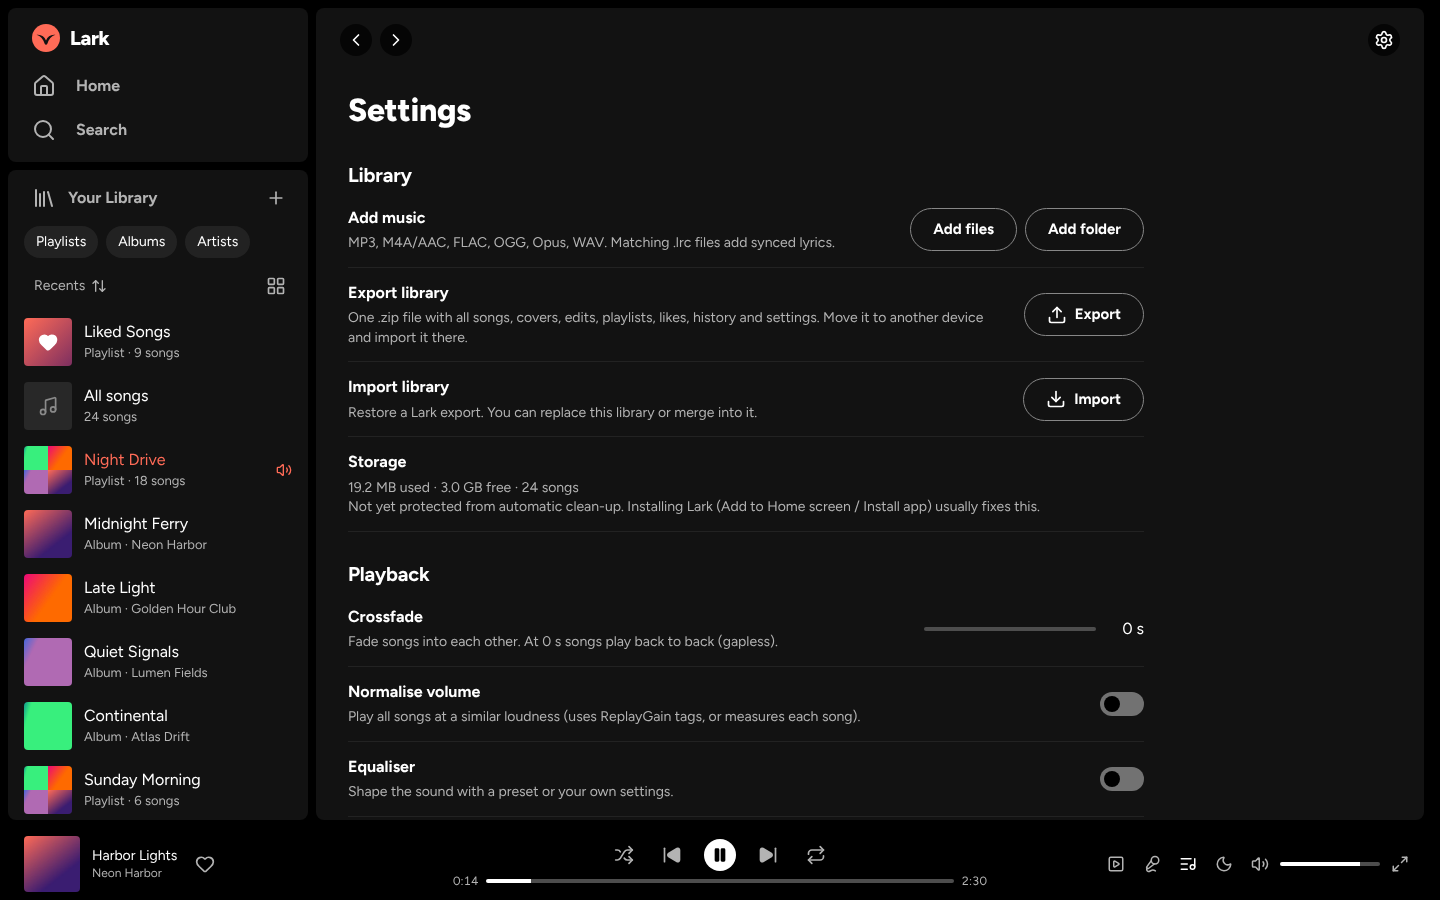
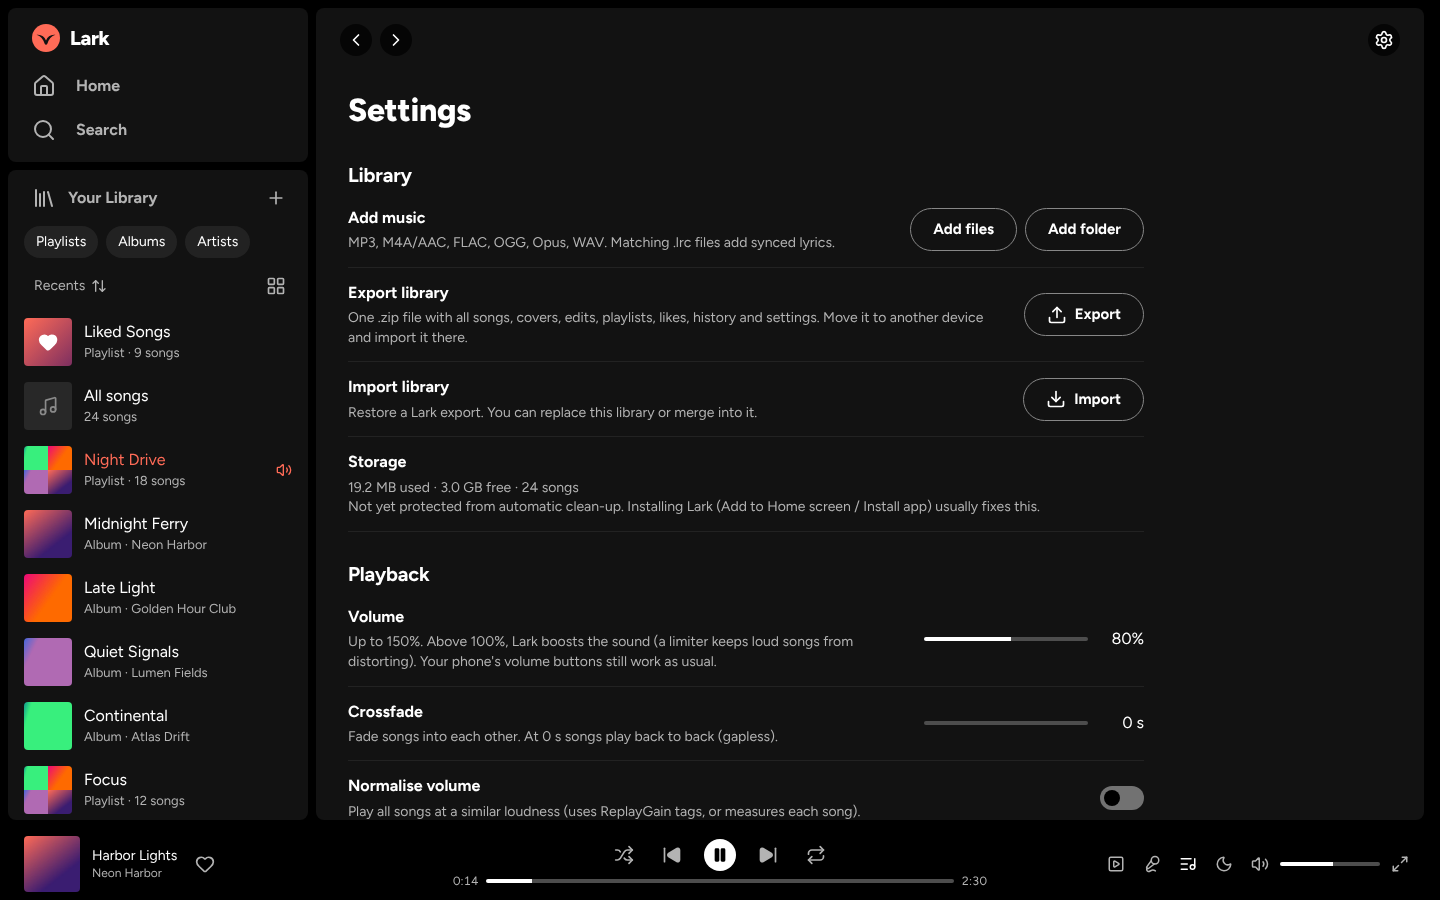
Volume up to 150%
The volume ceiling is now 150% (player-bar slider, keyboard, and a new
Volume slider in Settings, which phones need since their player has no
volume slider). Above 100% the sound is boosted through Web Audio with
a limiter so loud songs don't distort; at or below 100% playback is
unchanged (plain audio player unless crossfade/EQ/normalisation is on).
Test added.

Claude-Session: https://claude.ai/code/session_016covFTdUFWBo4vfXdR9J8w

diff --git a/src/js/engine.js b/src/js/engine.js
@@ -1,6 +1,6 @@
 // Audio engine. Two <audio> elements ("slots") take turns so the next song is already loaded:
 // it starts right as the current one ends (near-gapless) or overlaps it (crossfade).
-// Web Audio (needed for crossfade, EQ and normalisation) is only used while one of those is on;
+// Web Audio (needed for crossfade, EQ, normalisation and volume above 100%) is only used while one of those is on;
 // otherwise the elements play directly, which is the most reliable for background play on phones.
 import * as opfs from './opfs.js';
 import { Emitter } from './util.js';
@@ -11,7 +11,8 @@ export const EQ_PRESETS = {
   treble: [0, 0, 0, 1, 4, 6], vocal: [-2, -1, 2, 4, 3, 0], rock: [4, 2, -1, 1, 3, 4],
   pop: [-1, 2, 4, 3, 0, -1], acoustic: [3, 2, 1, 2, 2, 2], electronic: [5, 3, 0, -1, 2, 4],
 };
-export const GAP_LEAD = 0.01; // seconds before the end at which the next song is started when not crossfading
+export const GAP_LEAD = 0.01;
+export const MAX_VOLUME = 1.5; // 150%: above 100% the sound is boosted through Web Audio, with a limiter // seconds before the end at which the next song is started when not crossfading
 const db2gain = (db) => 10 ** (db / 20);
 
 export class Engine extends Emitter {
@@ -27,6 +28,7 @@ export class Engine extends Emitter {
   volume = 0.8;
   muted = false;
   #timer = 0;
+  #switching = Promise.resolve();
 
   constructor() { super(); this.#build(false); }
   get slot() { return this.slots[this.cur]; }
@@ -52,6 +54,10 @@ export class Engine extends Emitter {
         return b;
       });
       this.filters.reduce((a, b) => (a.connect(b), b)).connect(this.master);
+      // Limiter, used only when the volume is above 100%, so boosted loud songs don't distort.
+      this.limiter = this.ctx.createDynamicsCompressor();
+      Object.entries({ threshold: -1.5, knee: 0, ratio: 20, attack: 0.002, release: 0.15 }).forEach(([k, v]) => { this.limiter[k].value = v; });
+      this.limiter.connect(this.ctx.destination);
       this.master.connect(this.ctx.destination);
       this.ctx.onstatechange = () => { if (this.ctx?.state === 'suspended' && !this.el.paused) this.ctx.resume(); };
     }
@@ -103,8 +109,24 @@ export class Engine extends Emitter {
   }
   #applyVolume() {
     const v = this.muted ? 0 : this.volume;
-    if (this.web) { this.master.gain.value = v; this.slots.forEach((s) => { s.el.volume = 1; }); }
-    else this.slots.forEach((s) => { s.el.volume = v; });
+    if (this.web) {
+      this.master.gain.value = v;
+      this.slots.forEach((s) => { s.el.volume = 1; });
+      this.master.disconnect();
+      this.master.connect(v > 1 ? this.limiter : this.ctx.destination);
+    } else this.slots.forEach((s) => { s.el.volume = Math.min(1, v); });
+  }
+  #needWeb() { return this.opts.crossfade > 0 || this.opts.normalize || this.opts.eq.enabled || this.volume > 1; }
+  /** Switch between plain and Web Audio output (one switch at a time), keeping the song and position. */
+  #switchMode() {
+    return (this.#switching = this.#switching.then(async () => {
+      const need = this.#needWeb();
+      if (need === this.web) { this.#applyVolume(); return; }
+      const song = this.song, t = this.currentTime, playing = !this.paused, next = this.next;
+      this.#build(need);
+      if (song) await this.load(song, { autoplay: playing, at: t });
+      if (next) this.preload(next);
+    }));
   }
   #applyEq() {
     if (!this.web) return;
@@ -112,19 +134,18 @@ export class Engine extends Emitter {
     this.filters.forEach((f, i) => { f.gain.value = on ? this.opts.eq.gains[i] || 0 : 0; });
   }
 
-  setVolume(v) { this.volume = v; this.#applyVolume(); this.emit('volume'); }
+  setVolume(v) {
+    this.volume = Math.max(0, Math.min(MAX_VOLUME, v));
+    if (this.#needWeb() !== this.web) this.#switchMode(); else this.#applyVolume();
+    this.emit('volume');
+  }
   setMuted(m) { this.muted = m; this.#applyVolume(); this.emit('volume'); }
 
   /** Apply crossfade / normalisation / EQ settings, switching between plain and Web Audio output if needed. */
   async setOptions(opts) {
     this.opts = { ...this.opts, ...opts };
-    const needWeb = this.opts.crossfade > 0 || this.opts.normalize || this.opts.eq.enabled;
-    if (needWeb !== this.web) {
-      const song = this.song, t = this.currentTime, playing = !this.paused, next = this.next;
-      this.#build(needWeb);
-      if (song) await this.load(song, { autoplay: playing, at: t });
-      if (next) this.preload(next);
-    } else {
+    if (this.#needWeb() !== this.web) await this.#switchMode();
+    else {
       this.slots.forEach((s) => this.#applyNorm(s));
       this.#applyEq();
       this.#check();

diff --git a/src/js/ui/views.js b/src/js/ui/views.js
@@ -1,6 +1,6 @@
 // Pages: Home, Search, Library (phone tab), All songs, Liked Songs, Recently played, playlist,
 // album, artist, folder, lyrics and settings. Each returns { html, mount(root), deps }.
-import { EQ_BANDS, EQ_PRESETS } from '../engine.js';
+import { EQ_BANDS, EQ_PRESETS, MAX_VOLUME } from '../engine.js';
 import * as P from '../player.js';
 import { search } from '../search.js';
 import * as store from '../store.js';
@@ -252,6 +252,7 @@ export const views = {
 
   settings() {
     const st = L.settings;
+    const vol = P.engine.muted ? 0 : P.engine.volume;
     const presetOpts = Object.keys(EQ_PRESETS).map((k) => `<option value="${k}"${st.eq.preset === k ? ' selected' : ''}>${{ flat: 'Flat', bass: 'Bass booster', 'bass-down': 'Bass reducer', treble: 'Treble booster', vocal: 'Vocal', rock: 'Rock', pop: 'Pop', acoustic: 'Acoustic', electronic: 'Electronic' }[k]}</option>`).join('') + `<option value="custom"${st.eq.preset === 'custom' ? ' selected' : ''}>Custom</option>`;
     const bands = EQ_BANDS.map((f, i) => `<label class="eq-band"><input type="range" min="-12" max="12" step="1" value="${st.eq.gains[i]}" data-band="${i}" aria-label="${f} Hz" orient="vertical"><span>${f >= 1000 ? `${f / 1000}k` : f}</span></label>`).join('');
     return {
@@ -267,6 +268,8 @@ export const views = {
           <div class="set-row"><div><b>Storage</b><p id="storage-info">Checking…</p></div></div>
         </section>
         <section><h2>Playback</h2>
+          <div class="set-row"><div><b>Volume</b><p>Up to 150%. Above 100%, Lark boosts the sound (a limiter keeps loud songs from distorting). Your phone's volume buttons still work as usual.</p></div>
+            <div class="slider-val"><input type="range" class="range" data-bind="vol" min="0" max="150" value="${Math.round(vol * 100)}" style="--p:${(vol / MAX_VOLUME) * 100}%" aria-label="Volume"><output data-bind="vol-pct">${Math.round(vol * 100)}%</output></div></div>
           <div class="set-row"><div><b>Crossfade</b><p>Fade songs into each other. At 0 s songs play back to back (gapless).</p></div>
             <div class="slider-val"><input type="range" class="range" id="set-xfade" min="0" max="12" step="1" value="${st.crossfade}" style="--p:${(st.crossfade / 12) * 100}%"><output>${st.crossfade} s</output></div></div>
           <div class="set-row"><div><b>Normalise volume</b><p>Play all songs at a similar loudness (uses ReplayGain tags, or measures each song).</p></div>
@@ -274,7 +277,7 @@ export const views = {
           <div class="set-row"><div><b>Equaliser</b><p>Shape the sound with a preset or your own settings.</p></div>
             <label class="switch"><input type="checkbox" id="set-eq"${st.eq.enabled ? ' checked' : ''}><span></span></label></div>
           <div class="eq${st.eq.enabled ? '' : ' off'}"><select class="input" id="set-preset" aria-label="Equaliser preset">${presetOpts}</select><div class="eq-bands">${bands}</div></div>
-          <p class="hint">Crossfade, normalisation and the equaliser use Web Audio. With all three off, Lark plays through the plain audio player, which is the most reliable for playing with the screen off.</p>
+          <p class="hint">Crossfade, normalisation, the equaliser and volume above 100% use Web Audio. With all of them off, Lark plays through the plain audio player, which is the most reliable for playing with the screen off.</p>
         </section>
         ${isMobile() ? '' : `<section><h2>Keyboard shortcuts</h2><dl class="keys">
           <dt>Space</dt><dd>Play / pause</dd><dt>Shift + → / ←</dt><dd>Next / previous song</dd><dt>→ / ←</dt><dd>Seek 5 seconds</dd>

diff --git a/src/js/ui/nowplaying.js b/src/js/ui/nowplaying.js
@@ -1,6 +1,7 @@
 // Player UI: desktop player bar, phone mini-player (swipe to skip, swipe up to open),
 // full-screen now-playing view, queue panel, lyrics view and sleep timer menu.
 import { isSynced, parseLrc } from '../lrc.js';
+import { MAX_VOLUME } from '../engine.js';
 import * as P from '../player.js';
 import * as store from '../store.js';
 import { $, $$, clamp, esc, fmtTime, isMobile } from '../util.js';
@@ -20,7 +21,7 @@ export function playerBarHtml() {
       <div class="pb-meta"><a class="pb-t" data-bind="title"></a><div class="pb-a" data-bind="artist"></div></div>${btn('like-current', 'heart', 'Save to Liked Songs', 'like', 'icon-btn like')}</div>
     <div class="pb-center">${controlsHtml()}${seekHtml()}</div>
     <div class="pb-right">${btn('npv', 'square-play', 'Now playing view', 'npv-btn')}${btn('lyrics', 'mic-vocal', 'Lyrics', 'lyrics-btn')}${btn('queue', 'list-music', 'Queue', 'queue-btn')}${btn('sleep-menu', 'moon', 'Sleep timer', 'sleep')}
-      ${btn('mute', 'volume-2', 'Mute', 'mute')}<input type="range" class="range vol" data-bind="vol" min="0" max="100" aria-label="Volume">${btn('np-open', 'maximize-2', 'Full screen')}</div>
+      ${btn('mute', 'volume-2', 'Mute', 'mute')}<input type="range" class="range vol" data-bind="vol" min="0" max="150" aria-label="Volume">${btn('np-open', 'maximize-2', 'Full screen')}</div>
   </footer>
   <div class="mini" id="mini" hidden><div class="mini-in"><div class="mini-art" data-bind="cover"></div>
     <div class="mini-meta"><div class="mini-t" data-bind="title"></div><div class="mini-a" data-bind="artist"></div></div>
@@ -96,7 +97,8 @@ function updateModes() {
 }
 function updateVolume() {
   const v = engine.muted ? 0 : engine.volume;
-  each('vol', (el) => { el.value = Math.round(v * 100); el.style.setProperty('--p', `${v * 100}%`); });
+  each('vol', (el) => { el.value = Math.round(v * 100); el.style.setProperty('--p', `${(v / MAX_VOLUME) * 100}%`); el.title = `Volume ${Math.round(v * 100)}%`; });
+  each('vol-pct', (el) => { el.textContent = `${Math.round(v * 100)}%`; });
   each('mute', (el) => { el.innerHTML = ic(v === 0 ? 'volume-x' : v < 0.5 ? 'volume-1' : 'volume-2'); el.setAttribute('aria-label', engine.muted ? 'Unmute' : 'Mute'); });
 }
 function updateSleep() {
@@ -128,7 +130,7 @@ document.addEventListener('input', (e) => {
     each('cur', (el) => { el.textContent = fmtTime(p * engine.duration); });
   } else if (b === 'vol') {
     const v = e.target.value / 100;
-    e.target.style.setProperty('--p', `${v * 100}%`);
+    e.target.style.setProperty('--p', `${(v / MAX_VOLUME) * 100}%`);
     if (engine.muted) engine.setMuted(false);
     engine.setVolume(v);
     saveVolume();

diff --git a/src/js/ui/app.js b/src/js/ui/app.js
@@ -144,7 +144,7 @@ document.addEventListener('keydown', (e) => {
     ' ': () => P.toggle(),
     ArrowRight: () => (e.shiftKey ? P.next() : P.seek(E.currentTime + 5)),
     ArrowLeft: () => (e.shiftKey ? P.prev() : P.seek(E.currentTime - 5)),
-    ArrowUp: () => { E.setMuted(false); E.setVolume(Math.min(1, E.volume + 0.1)); store.setSettings({ volume: E.volume, muted: false }); },
+    ArrowUp: () => { E.setMuted(false); E.setVolume(E.volume + 0.1); store.setSettings({ volume: E.volume, muted: false }); },
     ArrowDown: () => { E.setVolume(Math.max(0, E.volume - 0.1)); store.setSettings({ volume: E.volume }); },
     m: () => { E.setMuted(!E.muted); store.setSettings({ muted: E.muted }); },
     s: () => P.setShuffle(!P.queue.shuffle),

diff --git a/src/styles.css b/src/styles.css
@@ -433,7 +433,7 @@ body:not(.has-song) .pb-left .like, body:not(.has-song) .pb-art { visibility: hi
 .set-btns { display: flex; gap: 8px; flex-wrap: wrap; justify-content: flex-end; }
 .ok { color: #6fd38a; width: 16px; height: 16px; vertical-align: -3px; }
 .slider-val { display: flex; align-items: center; gap: 12px; width: 220px; flex: none; }
-.slider-val output { width: 36px; text-align: right; font-variant-numeric: tabular-nums; }
+.slider-val output { width: 44px; text-align: right; font-variant-numeric: tabular-nums; }
 .eq { display: grid; gap: 16px; padding: 14px 0; justify-items: start; }
 .eq.off { opacity: .4; pointer-events: none; }
 .eq select { width: auto; }

diff --git a/README.md b/README.md
@@ -18,7 +18,7 @@ More in [docs/screenshots](docs/screenshots).
 - **Add music** by file picker, drag and drop, or a whole folder (computer). MP3 plus whatever the browser plays: M4A/AAC, FLAC, OGG, Opus, WAV. Tags are read: title, artist, album, album artist, track, year, genre, cover art, lyrics. A matching `.lrc` file gives synced lyrics. Files without tags use the name (`Artist - Title.mp3`). Duplicates (same file content) are skipped. Imports run in the background with a progress bar.
 - **Library**: Liked Songs, All songs, Recently played, automatic Albums and Artists pages from the tags, playlists with folders and pinning, "Your Library" with filters, sorting and list/grid view, and typo-tolerant search.
 - **Editing**: song title, artist, album, cover (paste an image with Ctrl+V or "Paste image", upload and crop, or reuse another cover) and lyrics; bulk edit of several songs; playlist name, description and cover (default: a 4-cover mosaic). Your original files are never changed.
-- **Playback**: shuffle (every song once before repeats), repeat off/all/one, queue ("Next in queue" before "Next from: …"; play next, add, reorder, remove, clear), previous restarts the song after 3 s, crossfade 0–12 s, near-gapless playback, volume normalisation (ReplayGain tags, otherwise measured), a 6-band equaliser with presets, a sleep timer (minutes or end of song), and synced lyrics. Lark remembers the song, position and queue after closing.
+- **Playback**: shuffle (every song once before repeats), repeat off/all/one, queue ("Next in queue" before "Next from: …"; play next, add, reorder, remove, clear), previous restarts the song after 3 s, volume up to 150% (boosted above 100%, with a limiter), crossfade 0–12 s, near-gapless playback, volume normalisation (ReplayGain tags, otherwise measured), a 6-band equaliser with presets, a sleep timer (minutes or end of song), and synced lyrics. Lark remembers the song, position and queue after closing.
 - **Controls**: lock screen, notification, Bluetooth/headphone buttons and keyboard media keys (Media Session), plus keyboard shortcuts on computers (listed in Settings).
 - **Export / import**: one `.zip` with everything (songs as-is, covers, edits, playlists, likes, history, settings). It is written as a stream, so it needs no extra memory or disk space, and it supports libraries over 4 GB (ZIP64). Import replaces or merges.
 
